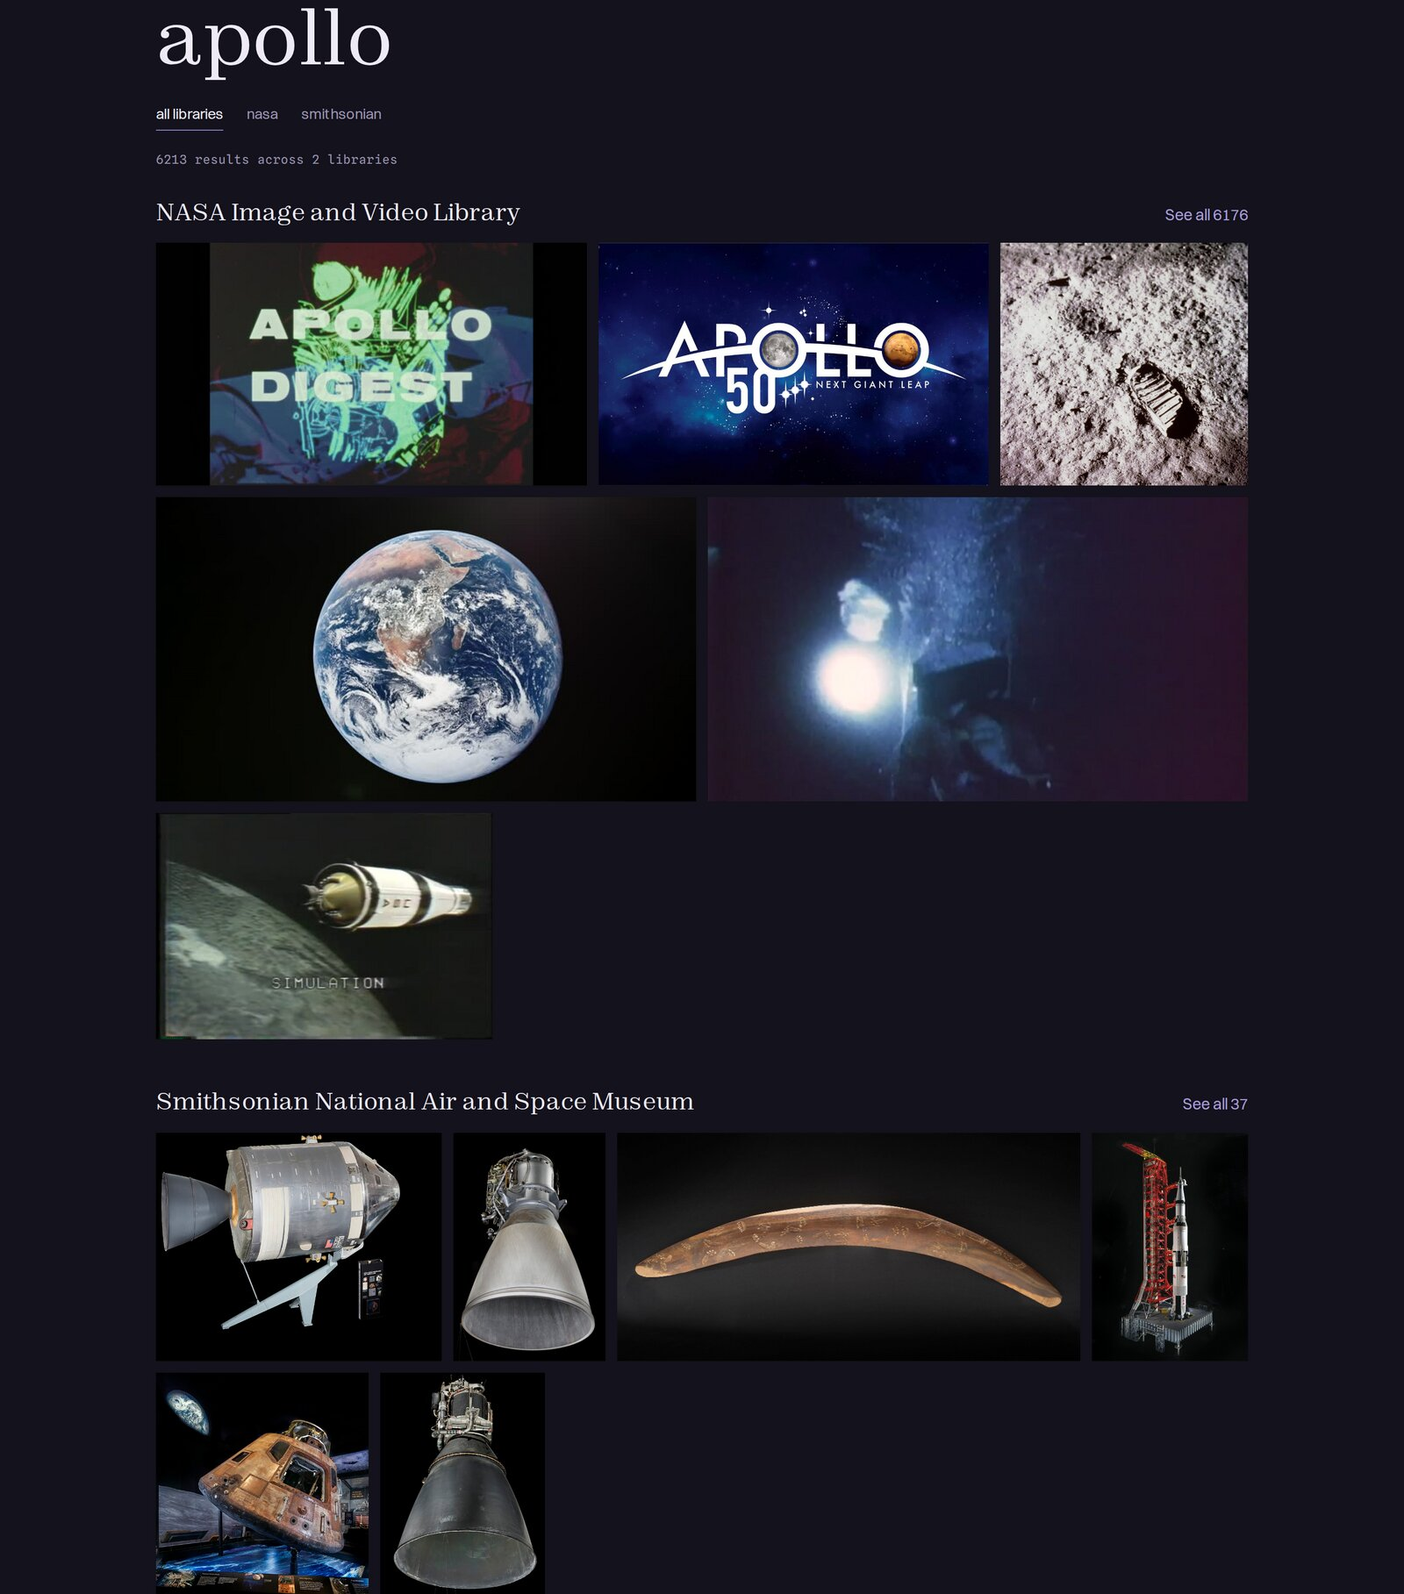
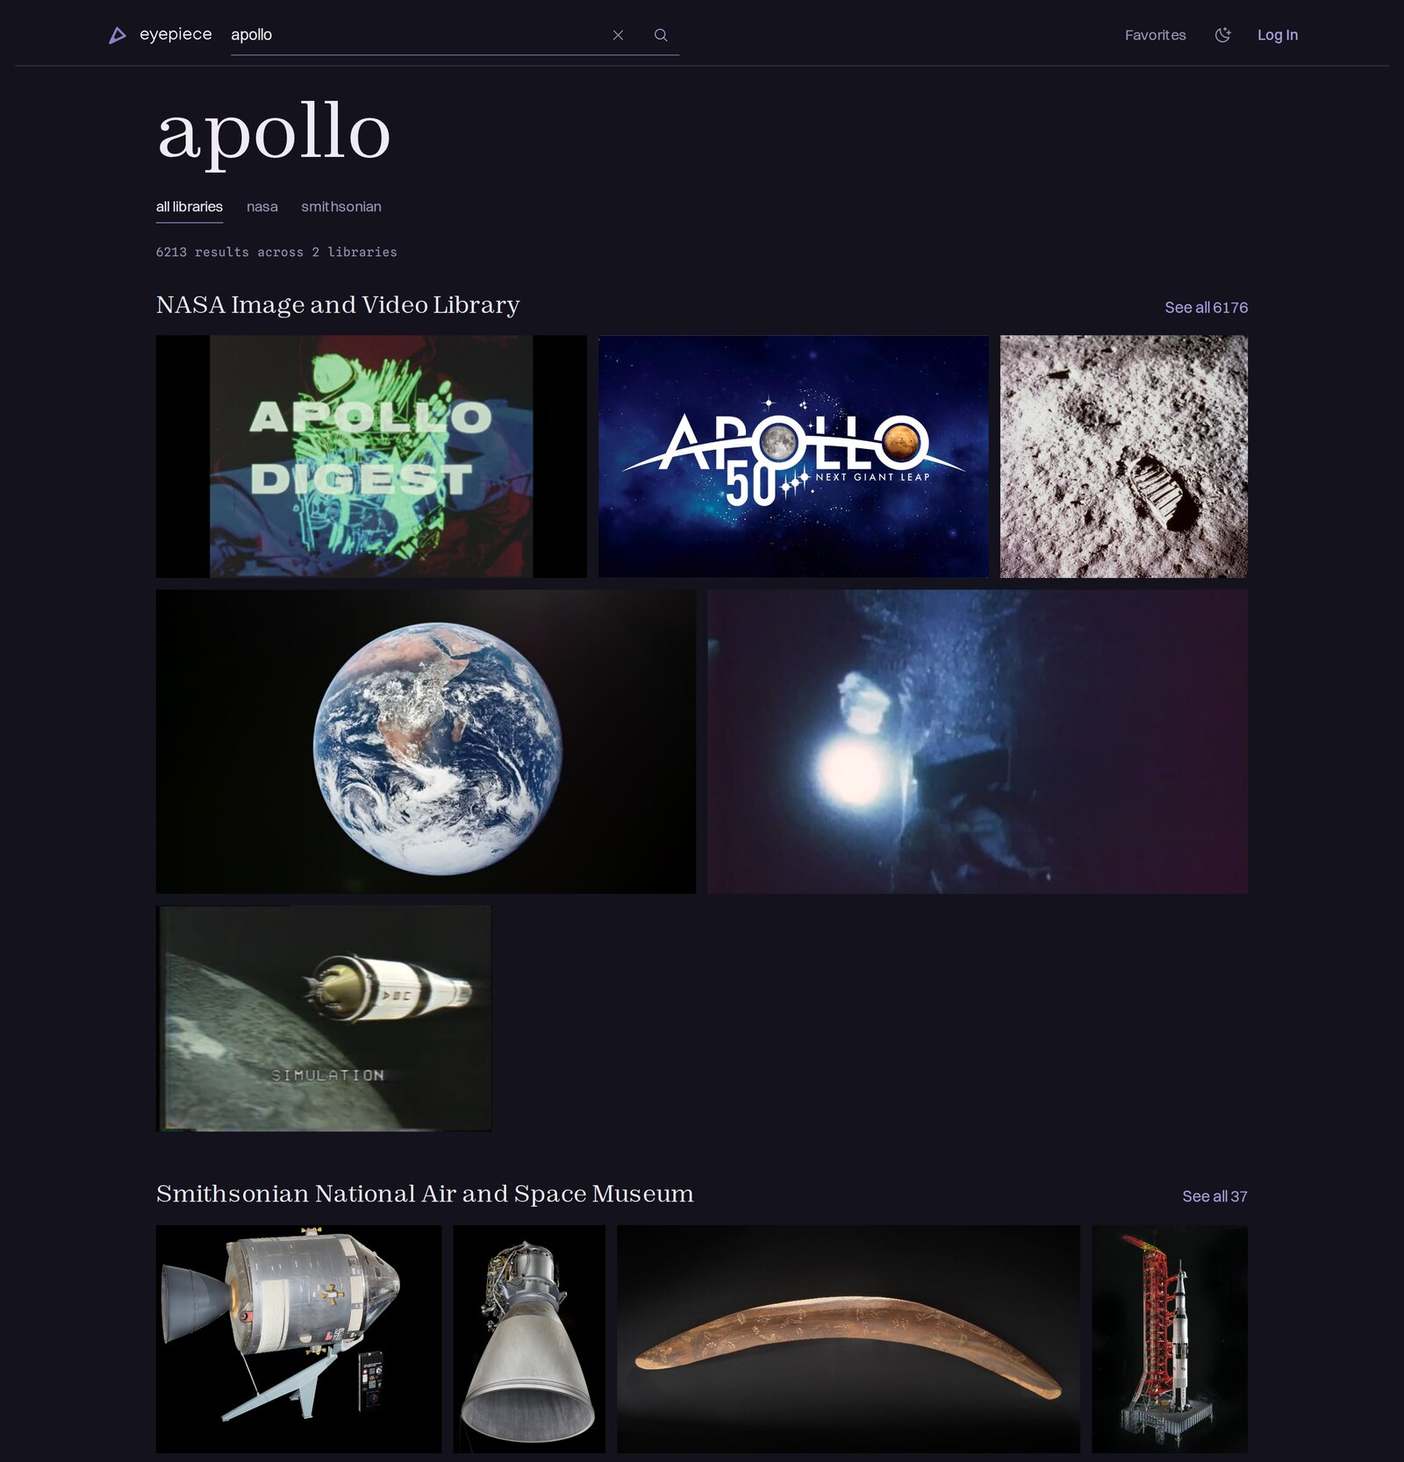
docs(readme): reframe project overview
- present user workflows and core architecture in a concise guide
- replace outdated search media with current project screenshots
- align package metadata with the public project description

diff --git a/README.md b/README.md
@@ -1,178 +1,217 @@
-# Eyepiece - Space and Astronomy Image Portal
+# Eyepiece
 
-Eyepiece is a [multi-provider](./docs/Providers.md) image portal. It provides search and favoriting features for multiple open asset providers.
+Eyepiece is an astronomy image search and collections website built around
+the NASA Image and Video Library and the Smithsonian's National Air and Space
+Museum collection. Users can search and browse across both providers in one
+accessible interface, with filters and metadata tailored to each archive.
+Signed-in visitors can save favorites and organize images into public or
+private collections.
 
-![Search results for "nebula" scoped to NASA, shown as a justified grid of space photography](docs/assets/search-nasa-nebula.jpg)
+Opening a result shows its details in an overlay and leaves the search in place
+underneath. The address still changes to the asset's own URL. Opening that URL
+directly or refreshing it renders the detail as a full page.
 
-Visit the live site at <https://eyepiece.net>.
+Public pages are built to load quickly and stay visually stable. Curated entry
+pages are generated ahead of time. Other public routes use cacheable server
+rendering, and known image dimensions reserve space before files arrive.
 
-Issues to be completed before official launch are listed at [Launch Milestones](https://github.com/christopher-r-anderson/eyepiece/milestone/1).
+[eyepiece.net](https://eyepiece.net) ·
+[Project write-up](https://christopheranderson.net/projects/eyepiece)
 
-## Architecture Highlights
+![Eyepiece search results for "crab nebula" scoped to NASA, shown as a justified grid of space photography](docs/assets/search-nasa-crab-nebula.jpg)
 
-Decision records live in [docs/decisions](./docs/decisions), one file per decision, dated when the decision was made.
+## Contents
 
-- [Cache policy follows route audience](./docs/decisions/01-public-caching.md) - the route tree is split into public, private, and token-callback roots that couple cache headers to authentication, with a middleware tripwire that catches a public route reading a session. The [Authentication and Caching](#authentication-and-caching) section below covers the mechanics.
-- [Search scopes by provider and defaults to All](./docs/decisions/02-search.md) - one flat query grammar, provider scope tabs, and an all-providers view whose sections stream independently so one slow provider never blocks another.
-- [Styles compile at build time with Panda CSS](./docs/decisions/03-styling.md) - the site ported its original Emotion styling to build-time CSS, keeping design tokens as custom properties and dropping the runtime style engine.
-- [User lists read snapshots, not the providers](./docs/decisions/04-provider-data.md) - favorites and collections store asset snapshots, so lists render without fanning out to providers, and a weekly job revalidates stale snapshots.
-- [Entry pages prerender at build time](./docs/decisions/05-prerendering.md) - the home page and its curated collections are baked in CI after provisioning, so a first visit serves static files instead of waiting on live provider calls.
+- [Using Eyepiece](#using-eyepiece)
+- [Local development](#local-development)
+- [Stack and architecture](#stack-and-architecture)
+- [Testing and verification](#testing-and-verification)
+- [Project documentation](#project-documentation)
+- [Data sources and usage](#data-sources-and-usage)
 
-![The all-providers search view for "apollo", with NASA and Smithsonian result sections](docs/assets/search-all-apollo.jpg)
+## Using Eyepiece
 
-### Layout Stability
+Start from the homepage search or one of its curated links. Search All libraries
+to browse NASA and Smithsonian at once. Choose one provider to use that
+archive's own filters and metadata. The current search and filters are stored in
+the URL, which can be bookmarked or shared.
 
-Content that arrives late is not allowed to move content that is already on screen:
+![The All libraries search view for "apollo", with separate NASA and Smithsonian result sections](docs/assets/search-all-apollo.jpg)
 
-- image slots reserve their space from provided dimensions before the file loads
-- controls that swap labels (Star and Starred) render both labels in the same grid cell so the control never changes width
-- hover and focus reveals animate opacity and position on absolutely positioned layers, outside the normal flow
-- fallback fonts are metric-matched to the webfonts (`size-adjust` plus ascent, descent, and line-gap overrides computed from the pinned files), so a swap holds line boxes; glyph widths cannot be matched, so the two first-paint faces load as `font-display: optional` and skip a late swap entirely rather than rewrap
-- the hero heading reserves its webfont's line count at narrow widths, so a font arriving after first paint grows into reserved space instead of moving the page
+Select an image to open its details. Search results work with a pointer,
+touchscreen, or keyboard. The Arrow keys move through the grid. Home, End, Page
+Up, and Page Down provide larger jumps. Longer result sets pause at `Load more`
+checkpoints, keeping the footer within reach.
 
-### Performance and Accessibility
+Use `Log In` in the site header to sign in or register. Once signed in, the
+actions on each image let you add favorites and organize images into public or
+private collections. The user menu includes links to Favorites, Your
+Collections, View Profile, and Edit Profile. Public collections appear on your
+profile, and profile settings control the public display name.
 
-The core page templates - home, both search scopes, asset detail, collection detail, album, and login - are audited with Lighthouse (mobile and desktop) and axe-core (light and dark themes, with the WCAG 2.2 target-size rule enabled - axe ships it disabled). The audits run on demand with `pnpm audit:lighthouse` and `pnpm audit:axe`. Production Lighthouse medians as of August 2026, three runs per template and form factor:
+## Local development
 
-| Template          | Perf (mobile / desktop) | Accessibility | Best Practices | SEO |
-| ----------------- | ----------------------- | ------------- | -------------- | --- |
-| Home              | 83 / 100                | 100           | 100            | 100 |
-| Search (all)      | 90 / 100                | 100           | 100            | 66  |
-| Search (provider) | 99 / 100                | 100           | 100            | 66  |
-| Asset detail      | 91 / 100                | 100           | 100            | 100 |
-| Collection detail | 88 / 100                | 100           | 100            | 100 |
-| Album             | 98 / 100                | 100           | 100            | 100 |
-| Login             | 100 / 100               | 100           | 100            | 100 |
+### Requirements
 
-- Accessibility scores 100 on every audited template with zero axe violations. The public profile page and the authenticated pages (favorites and settings) are not yet part of the audited set.
-- The SEO 66 on the search templates is an accepted result of search results being `noindex`ed.
-- Mobile performance is bound by provider image weight under lab throttling. CLS medians are 0.000 everywhere except asset detail's 0.002-0.016, well inside the good threshold.
+- Node.js 24
+- pnpm 10.30.3
+- a Docker-compatible runtime for local Supabase
+- a Smithsonian Open Access API key for live Smithsonian requests (automated
+  browser tests use recorded fixtures and do not need the key)
 
-## Project Setup
-
-### Local Development
-
-#### Setup
-
-This is the guide for setting up local development for eyepiece.net. If you want to deploy this code to your own site, see [docs/NewProductionSite.md](docs/NewProductionSite.md) first.
+### Setup
 
 ```bash
 pnpm install
-pnpm supabase start # note "Project URL" and "Authentication Keys -> Publishable"
+pnpm supabase start
 
-# Set up your local env files by copying the examples and then updating them with your values.
-# `.env.local` is used for local app and build configuration.
-# `.env.test` is used for test-mode runs like Vitest.
 cp .env.example .env.local
 cp .env.test.example .env.test
-
-# You can get your local supabase related values to use by running
 pnpm print-supabase-env
+```
 
-# `SI_OA_API_KEY` is your Smithsonian Institute Open Access API Key from https://api.data.gov/signup/
+Copy the emitted Supabase values into `.env.local` and `.env.test`. Then add an
+`SI_OA_API_KEY` to `.env.local`. Sentry is disabled unless its optional values
+are configured. See [Environment Variables](docs/EnvironmentVariables.md) for
+the full configuration reference.
 
-# Sentry env vars are optional for local development and tests.
-# Leave `VITE_SENTRY_ENABLED=false` unless you are intentionally verifying the Sentry integration.
-# See "Local Development" in `docs/EnvironmentVariables.md` for further details.
+Install Playwright's shared browser binaries before running end-to-end tests:
 
-# To be able to run e2e tests, use one of the following:
-# Note that this is over 400MB of downloads, though they will be shared with other local projects that use the same versions
+```bash
 pnpm playwright install
-# If you are on Linux and do not already have playwright OS dependencies installed, use this instead
+# Linux systems that also need the browser OS packages:
 pnpm playwright install --with-deps
 ```
 
-#### Running Locally
+Start the application:
 
 ```bash
-pnpm supabase start # if not already started
+pnpm supabase start # if it is not already running
 pnpm dev
 ```
 
-Note that the Netlify CLI is patched ([patches/netlify-cli.patch](patches/netlify-cli.patch)) for two issues in `netlify serve` that impact CI and e2e tests, so run it through the package scripts (`pnpm netlify`, `pnpm serve`) rather than a global install:
-
-1. Stock `serve` replays 404/403 responses with `.html`/`.htm` path spellings, multiplying every not-found page into many function invocations ([Netlify discussion](https://answers.netlify.com/t/netlify-is-invoking-404-functions-4-extra-times/127098)).
-2. Stock `serve` resolves the project root to the parent checkout when run from a git worktree nested inside the repository, building and serving the wrong tree's code ([netlify/cli#7868](https://github.com/netlify/cli/issues/7868)); `pnpm dev` is unaffected.
-
-Styling is generated by Panda CSS. If `styled-system/` is missing or stale — after editing `panda.config.ts` or files in `panda/` — rebuild it with `pnpm codegen` (it is also rebuilt on every `pnpm install`).
-
-### Observability
-
-Eyepiece uses Sentry for client-side and server-side observability.
-
-- Client-side observability is initialized from the router and includes route-aware tracing and Replay when enabled.
-- Server-side observability is initialized from the server entry and captures request and server-function failures through shared middleware.
-- Shared error observability rules keep expected errors, such as handled form errors and 400 responses, out of Sentry.
-- When a user is signed in, both client and server events are associated with the authenticated user id.
-
-For the main integration points and development guidance, see [docs/Observability.md](docs/Observability.md).
-
-#### Local Observability Verification
-
-To verify the Sentry integration locally:
-
-1. Set `VITE_SENTRY_ENABLED=true` and provide a valid `VITE_SENTRY_DSN` in `.env.local`.
-2. Start the app with `pnpm dev` and visit `/dev/observability`.
-3. Confirm that the client render error reaches Sentry with route and boundary metadata.
-4. Confirm that handled form errors remain visible in the UI but do not show up in Sentry.
-5. Use the full-reload server-error control and confirm that the request is captured on the server.
-6. Confirm that the handled 400 response renders in the boundary UI but does not show up in Sentry.
-7. If you are signed in locally, confirm client-side and server-side events are associated with the authenticated user id.
-
-#### Site authentication
-
-There will be an existing user you can log in to the local site with:
+The local database includes a test account:
 
 - email: `user1@example.com`
 - password: `hunter2`
 
-#### Pre-commit Checklist
+### Checks
 
-- `pnpm lint` runs `eslint`
-- `pnpm format` runs `prettier`
-- `pnpm typecheck` runs `tsc`
-- `pnpm test:unit` runs `vitest run --project unit` (use `pnpm test:unit:watch` for watch mode while developing)
-- `pnpm test:integration` runs `vitest --project integration` (integration tests against local Supabase require `pnpm supabase start`)
-- `pnpm test:e2e` runs `playwright test` (e2e tests against local Supabase require `pnpm supabase start`)
+```bash
+pnpm lint
+pnpm format
+pnpm typecheck
+pnpm test:unit
+pnpm test:integration # requires local Supabase
+pnpm test:e2e         # requires local Supabase
+pnpm build
+```
 
-You can use `pnpm fix` instead of `pnpm lint` and `pnpm format` to run them both and autofix any issues found (when possible).
+`pnpm preflight` runs the complete local gate, including autofixes, all tests,
+and the production build.
 
-E2E tests may generate a `deno.lock` file the first time because the Netlify CLI is used to serve the project. The file remains ignored because the current edge function imports only repository-local modules and web-platform APIs; there are no external Deno dependencies for it to lock.
+### Local tooling notes
 
-### New Production Site
+Panda generates `styled-system/` during installation. Run `pnpm codegen` after
+changing `panda.config.ts` or files in `panda/`.
 
-If you would like to set up a new production site using this codebase or just wish to understand the setup, you can refer to the [New production site setup](docs/NewProductionSite.md) guide.
+End-to-end tests use `netlify serve` through the repository's package scripts.
+The installed Netlify CLI is patched in
+[`patches/netlify-cli.patch`](patches/netlify-cli.patch) to prevent repeated
+404/403 function invocations and to resolve the correct root from linked Git
+worktrees. Use `pnpm serve` rather than a global Netlify installation.
 
-## Authentication and Caching
+E2E runs may generate a `deno.lock`. The file is ignored because the current
+edge function has no external Deno dependencies.
 
-Eyepiece uses a three-root route tree that enforces authentication requirements and cache policy at the boundary level:
+## Stack and architecture
 
-- **Public routes** (`/(public)/`) are unauthenticated. Server-side rendering never branches on user identity, so responses are CDN-cacheable by default. User-specific UI is rendered as client-only islands after hydration.
-- **Private routes** (`/(private)/`) require an authenticated session and always respond with `private, no-store`.
-- **Token-callback routes** (`/(token-callbacks)/`) handle sensitive one-time tokens (email confirmation, password reset, OAuth returns). No session is established on load, so responses are `private, no-store` and never cached.
+- React 19, TypeScript, and TanStack Start, Router, and Query
+- Supabase authentication and Postgres persistence
+- Panda CSS with build-time extraction and React Aria Components
+- Netlify SSR, prerendering, CDN caching, Image CDN, and an image-source edge
+  function
+- Vitest, Playwright, Lighthouse, axe-core, and Sentry
 
-Cache policy and authentication enforcement are applied at each root and inherited by all descendants. Route files in each subtree cannot override policy, set raw `Cache-Control` headers, or access the user Supabase client outside the authenticated scope.
+Route files define URL and request-policy boundaries. Product behavior lives in
+`src/features`, and provider-neutral types live in `src/domain`. External
+clients live in `src/integrations`. `src/server/eyepiece` composes the provider
+adapters behind one internal service.
 
-For the full policy reference, including route classes, guard behavior, cache profiles, and client auth commands, see [docs/RoutePolicy.md](docs/RoutePolicy.md).
+Search results use justified rows to preserve image aspect ratios. React Aria
+handles grid semantics and focus management. A spatial keyboard delegate follows
+the visible row layout.
 
-## Providers
+Public, signed-in, and token-callback route roots each define their authentication
+and cache policies. Public server rendering never reads visitor identity.
+Personal controls and account data load after hydration. Native and hydrated
+forms call the same command layer.
 
-Eyepiece supports multiple image asset providers.
+Favorites and collection items store enough provider data to render each saved
+asset. A list can load without requesting every item from NASA or Smithsonian
+again. If a source record is removed later, the saved entry remains, though
+its media can still depend on provider-hosted files.
 
-### Current Providers
+Supported NASA and Smithsonian image URLs go through Netlify's Image CDN for
+responsive AVIF or WebP output. Other URLs use the providers' own renditions. A
+small edge function gives NASA source images a longer browser cache policy and a
+durable cache across deploys. The homepage and curated entry pages are
+prerendered after their database content is provisioned. Other public routes use
+cacheable server rendering.
 
-#### NASA Image and Video Library
+## Testing and verification
 
-- [NASA API portal](https://api.nasa.gov/) NASA Image and Video Library
-- [NASA IVL API Documentation (PDF)](https://images.nasa.gov/docs/images.nasa.gov_api_docs.pdf)
-- Used with permission under the [NASA Images and Media Usage Guidelines](https://www.nasa.gov/nasa-brand-center/images-and-media/)
+Unit tests cover domain rules, parsing, policies, and component behavior.
+Integration tests run against a local Supabase instance. Playwright runs the
+main workflows in Chromium, Firefox, and WebKit with recorded NASA and
+Smithsonian responses. A missing fixture fails the test instead of silently
+reaching a live provider.
 
-#### The Smithsonian Institution Open Access - National Air and Space Museum
+Audit scripts run Lighthouse and axe against core templates on mobile and
+desktop, in both light and dark themes. In the current audit set, every covered
+template scored 100 for accessibility and had no axe violations, including the
+WCAG 2.2 target-size rule. The audits do not yet cover the public profile,
+favorites, or settings pages, and they do not represent real-user experience.
 
-- [The Smithsonian Institution Open Access API](https://edan.si.edu/openaccess/apidocs/)
-- Used with permission under [The Smithsonian Institution Terms of Use](https://www.si.edu/termsofuse)
-- Imagery is dedicated to the public domain (CC0) through [Smithsonian Open Access](https://www.si.edu/openaccess)
+<details>
+<summary>August 2026 Lighthouse medians</summary>
 
-### Provider Integration
+| Template          | Performance (mobile / desktop) | Accessibility | Best Practices | SEO |
+| ----------------- | ------------------------------ | ------------- | -------------- | --- |
+| Home              | 83 / 100                       | 100           | 100            | 100 |
+| Search (all)      | 90 / 100                       | 100           | 100            | 66  |
+| Search (provider) | 99 / 100                       | 100           | 100            | 66  |
+| Asset detail      | 91 / 100                       | 100           | 100            | 100 |
+| Collection detail | 88 / 100                       | 100           | 100            | 100 |
+| Album             | 98 / 100                       | 100           | 100            | 100 |
+| Login             | 100 / 100                      | 100           | 100            | 100 |
 
-To understand the provider integration points or how to add a new provider, see the documentation in the [Providers Guide](./docs/Providers.md).
+Search results are deliberately `noindex`, which accounts for their SEO score.
+Mobile performance on image-heavy templates varies with provider image weight
+and first-time Image CDN transforms.
+
+</details>
+
+Run the audits with `pnpm audit:lighthouse` and `pnpm audit:axe`.
+
+## Project documentation
+
+- [Architecture decision records](docs/decisions/)
+- [Search behavior and URL state](docs/Search.md)
+- [Provider model and integration guide](docs/Providers.md)
+- [Route, authentication, and caching policy](docs/RoutePolicy.md)
+- [Styling conventions](docs/Styling.md)
+- [Environment variables](docs/EnvironmentVariables.md)
+- [Observability and local Sentry verification](docs/Observability.md)
+- [Setting up a separate production site](docs/NewProductionSite.md)
+
+## Data sources and usage
+
+- [NASA Image and Video Library](https://images.nasa.gov/): used under the
+  [NASA Images and Media Usage
+  Guidelines](https://www.nasa.gov/nasa-brand-center/images-and-media/)
+- [Smithsonian Open Access
+  API](https://edan.si.edu/openaccess/apidocs/): National Air and Space Museum
+  imagery is provided by [Smithsonian Open Access](https://www.si.edu/openaccess).
+  Eyepiece filters by [CC0](https://creativecommons.org/publicdomain/zero/1.0/deed.en)
+  licensed media.
